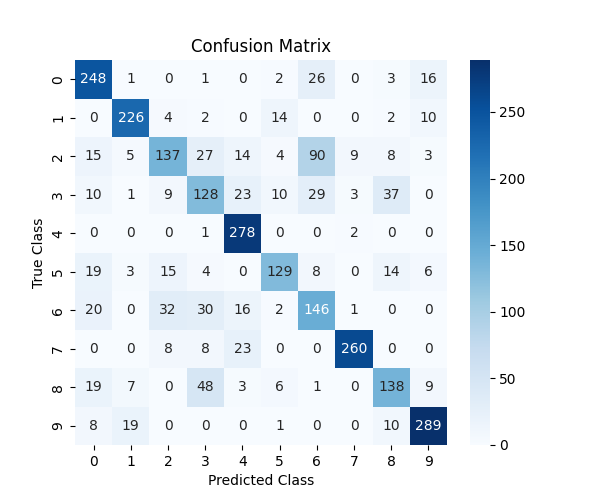
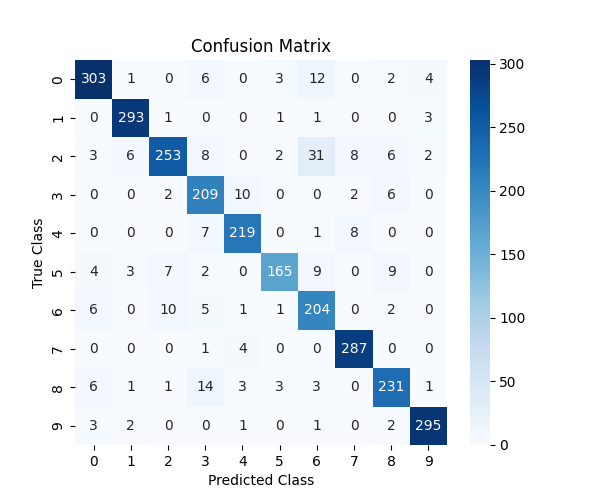
added models reports

diff --git a/main.py b/main.py
@@ -22,7 +22,23 @@ if __name__ == "__main__":
     #train and test model
     model_training_statistics = TrainedModelStatistics(model=model)
     train_loader, val_loader, test_loader = get_data_for_training(num_workers=3, add_image_augmentation=True)
-    trained_model = train_model(model, model_training_statistics, train_loader, val_loader, epochs=2, show_info=True)
+    trained_model = train_model(model, model_training_statistics, train_loader, val_loader, epochs=30, show_info=True)
+
+    test_model(trained_model, test_loader)
+
+    model_training_statistics.show_confusion_matrix(test_loader=test_loader)
+    model_training_statistics.plot_training_graphs()
+
+
+    print('\n ---------------------------- \n')
+    model = MobileNetV2()
+
+    show_model_summary(model)
+
+    #train and test model
+    model_training_statistics = TrainedModelStatistics(model=model)
+    train_loader, val_loader, test_loader = get_data_for_training(num_workers=3, add_image_augmentation=True)
+    trained_model = train_model(model, model_training_statistics, train_loader, val_loader, epochs=30, show_info=True)
 
     test_model(trained_model, test_loader)
 

diff --git a/readme.md b/readme.md
@@ -12,3 +12,6 @@ This project involves building and training a CNN model for image classification
 
 * A brief results summary should highlight key findings and insights.
 
+## Results
+
+![Confusion Matrix for CNN](images/MyCNN_confusion_matrix.png)
